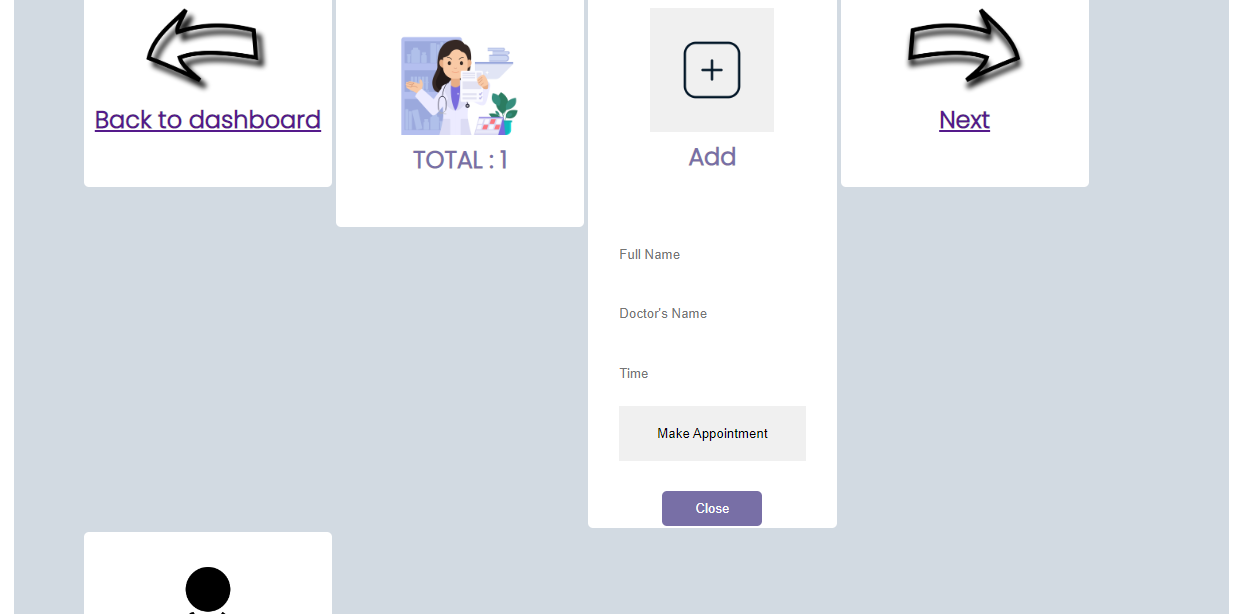
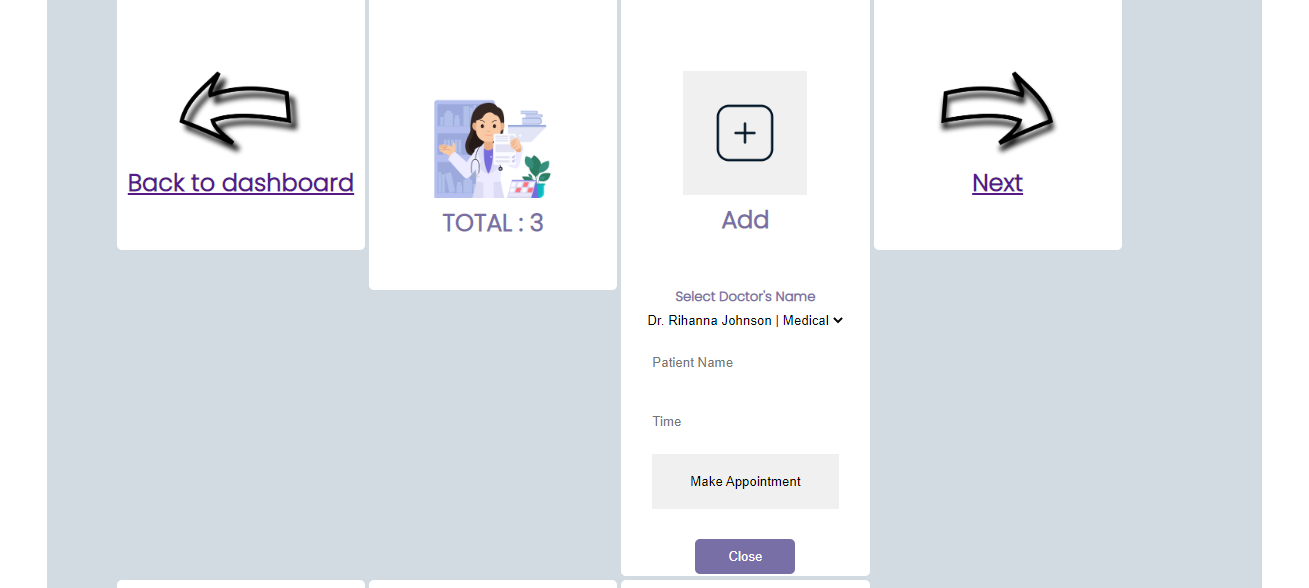
UPDATE README
Uloaded and updated the images in the readme including their descriptions for the services like manage patients, manage appointments, manage diagnosis and manage prescription.

diff --git a/README.md b/README.md
@@ -1,6 +1,6 @@
 # CIMS
 
-## Clinical Information Management System
+## Clinic Information Management System
 
 Clinic Information Management System (CIMS) is a fullstack web application, developed using python django. It enables clinic personnel and administrators to not only track patient records but also the doctors and nurses providing health care and treatment to the respective patients.
 
@@ -85,13 +85,17 @@ To manage patient information and enable tracking of health care services
 
 ![The successful login message](cim_users/static/cim_users/loginsuccess.PNG)
 
-* When a user enters wrong credentials, that is to say either a wrong username or password, the form returns a message that reads Account credentials do not exist.
+* When a user enters wrong credentials, that is to say non-existent usernames, the site returns a message that states credentials do not exist.
 
-![The wronglogin credentials](cim_users/static/cim_users/wronglogincredentials.PNG)
+![The wronglogin credentials](cim_users/static/cim_users/credentials%20do%20not%20exist.PNG)
 
 * When the user enters either an incorrect username or password, the system returns a flash message that reads wrong username or password.
 
 ![The wrongusernamepw credentials](cim_users/static/cim_users/wrongusernamepw.PNG)
+
+* When a user tries to enter credentials that already exist in the system, the system returns a message stating Account already exists.
+
+![The already existing credentials](cim_users/static/cim_users/accountalreadyexists.PNG)
 
 * Likewise, when a user wants to log out of the system. The CIMS application returns the message you have logged out, goodbye!
 
@@ -101,51 +105,73 @@ To manage patient information and enable tracking of health care services
 
 * The CIMS dashboard allows the users in the system not only to view but to manage the services on the application such as patients, appointments, diagnosis and medication whose data is stored in their respective custom models which are patient, appointment, diagnosis and medicine.
 
-* The dashboard has arrows within each tab for easy navigation from service to the next and back to the dashboard. The services on the service page are also linked to the corresponding models for easy management.
+* The dashboard has arrows within each tab for easy navigation from one service to the next and back to the dashboard. The services on the service page are also linked to the corresponding models for easy management.
 
-![The dashboard](cim_users/static/cim_users/manageservices.PNG)
+![The dashboard](cim_users/static/cim_users/dashboardafterlogin.PNG)
 
 1. **Manage Patients**
 
-* As a refistered user, CIMS allows you to manage the patients. Within the patients tab, you can view, add, update and delete patients. You can also view the total number of patients within CIMS in this tab.
+* As a registered user, CIMS allows you to manage the patients. Within the patients tab, you can view, add, update and delete patients. You can also view the total number of patients within CIMS in this tab.
 
-* The add functionality in manage patients allows users to add the full name, the ailment and diagnosis of the patient.
+![cims patients](cim_users/static/cim_users/cimspatients.PNG)
 
-![The add patient](cim_users/static/cim_users/addpatient.PNG)
+![Viewing the patients](cim_users/static/cim_users/viewingpatients.PNG)
 
-* The update button allows users to update the name, ailment and diagnosis fields of the patients while the delete button allows users to delete patients from the CIMS application.
+* The add functionality in manage patients allows users to add the full name, and the symptoms or ailments of the patient.
 
-![The update and delete patient](cim_users/static/cim_users/updatedeletepatient.PNG)
+![The add patient](cim_users/static/cim_users/Addpatient.PNG)
+
+* The update button allows users to update the name, and the ailment fields of the patients while the delete button allows users to delete patients from the CIMS application.
+
+![The update and delete patient](cim_users/static/cim_users/updatepatient.PNG)
 
 2.**Manage Appointments**
 
 * CIMS allows authorized users to manage appointments within the app. Here users can view the existing appointments, add appointments, update and delete appointments.
 
-![manage appointment](cim_users/static/cim_users/manageappointments.PNG)
+![cims appointments](cim_users/static/cim_users/cimsappointments.PNG)
 
-* The appointment model allows users to add fields like the patient name, the doctor's  or specialists name and the time of visit when making an appointment.
+![viewing appointments](cim_users/static/cim_users/viewingappointments.PNG)
+
+* The appointment model allows users to add fields like the patient name, select the doctor's  or specialists name and the time of visit when making an appointment.
 
 ![add appointment](cim_users/static/cim_users/addappointment.PNG)
+
+* The appointment model also allows registered users to update the appointment fields. They can also choose to delete these appointments if they wish.
+
+![update appointment](cim_users/static/cim_users/updateappointment.PNG)
 
 3.**Manage Diagnosis**
 
 * CIMS allows users to manage diagnosis within the app. Here users can view the existing diagnosis, add, update and delete diagnosis.
 
-![manage diagnosis](cim_users/static/cim_users/managediagnosis.PNG)
+![cims diagnosis](cim_users/static/cim_users/cimsdiagnosis.PNG)
 
-* The diagnosis model allows the users to add fields like patient name, test name, diagnosis and time of visit when creating a diagnosis.
+![viewing diagnosis](cim_users/static/cim_users/viewingdiagnosis.PNG)
+
+* The diagnosis model allows the users to add fields like patient name, test name, and the diagnosis.
 
 ![add diagnosis](cim_users/static/cim_users/adddiagnosis.PNG)
 
-4.**Manage Medicine**
+* The diagnosis model further allows the users to upate the diagnosis of the different patients or delete them if they wish.
+
+![update diagnosis](cim_users/static/cim_users/updatediagnosis.PNG)
+
+4.**Manage Medication**
 
 * CIMS allows authorized users to manage medicine or treatment within the app. Here users can view the existing treatments, add, update and delete prescriptions.
 
-![manage medicine](cim_users/static/cim_users/managemedicine.PNG)
+![cims pharmacy](cim_users/static/cim_users/cimspharmacy.PNG)
+
+![Viewing prescriptions](cim_users/static/cim_users/viewingprescriptions.PNG)
 
 * The medicine module allows users to add fields like the patient to whom the medicine is prescribed to, the medication and the stock when issuing a prescription.
 
 ![add prescription](cim_users/static/cim_users/addprescription.PNG)
+
+* The medicine module also allows to update or delete the fields created.
+
+![update prescription](cim_users/static/cim_users/updateprescription.PNG)
 
 5.**Manage Team Members**
 
@@ -153,21 +179,35 @@ To manage patient information and enable tracking of health care services
 
 ![manage members](cim_users/static/cim_users/managemembers.PNG)
 
-* CIMS provides users the functionality to add fields like the full name, position and department when adding a new member to the team in CIMS app.
+* CIMS provides users the functionality to add fields like the full name, role and department when adding a new member to the team in CIMS app.
 
 ![add members](cim_users/static/cim_users/addmember.PNG)
 
+* CIMS furthermore allows authorized users to update members in the teams module. Users may therefore update or delete members as they see fit.
+
+![update teams](cim_users/static/cim_users/updateteammembers.PNG)
+
 ------
+## Logical Flow
 
-## Testing and Validation
 
-**Testing**
+-------
+## Testing
+
+1. **The functionality of the site**
 
 * Using Django unit testing to ensure that models within the app exist, are functioning and can be used to capture user data.
 
 ![The django test results](cim_users/static/cim_users/djangotests.PNG)
 
-**Validation**
+2. **Responsiveness**
+
+3. **Bugs and Fixes**
+
+* During the login phase, there was a bug that returned false message for users created that are not in the system. This bug was fixed by simply changing the message to 'credentials does not exist' in the views for the logins.
+
+-------
+## Validation
 
 * Frontend validation was used to ensure that form data being submitted to our views are not empty or null.
 
@@ -175,12 +215,23 @@ To manage patient information and enable tracking of health care services
 
 * Serverside validation was used to ensure that the right data was being posted before capturing it to the database.
 
-### Bugs and Fixes
+### Validator Testing
 
-* During the login phase, there was a bug that returned false message for users created that are not in the system. This bug was fixed by simply changing the message to 'credentials does not exist' in the views for the logins.
+1. **HTML**
 
+2. **CSS**
+
+3. **Python**
+
+4. **Accessibility**
+
+![The lighthouse accessibility score](cim_users/static/cim_users/lighthouseaccesibility.PNG)
+
+**Unfixed Bugs**
+
+-------
 ## Deployment
-------
+-------
 ### Version Control
 
 * The site was created using the Visual Studio Code editor and pushed to github to the remote repository django-cims.
@@ -203,7 +254,7 @@ The following steps were followed to deploy this project to Heroku:
 
 * Go to "Settings" and navigate to Config Vars. Add the following config variables:
    * PORT : 8000
-   * secret_key: randomSecretKey2024
+   * secret_key:
    * disable_connectstatic:1
 
 * Navigate to "Deploy". Set the deployment method to Github and enter repository name and connect.
@@ -212,11 +263,13 @@ The following steps were followed to deploy this project to Heroku:
 
 * The app will now be deployed to heroku
 
+* The live link can be found here- https://django-cims.herokuapp.com/
+------
 ## Credits
 ------
 * Lecture/ course videos on how to deploy the application
 
-* You tube tutorials on how to import library in python https://www.youtube.com/watch?v=h0oRPIlnJYQ
+* YouTube tutorials on how to import library in python https://www.youtube.com/watch?v=h0oRPIlnJYQ
 
 * All images are from Pixabay https://pixabay.com/images/search/
 
